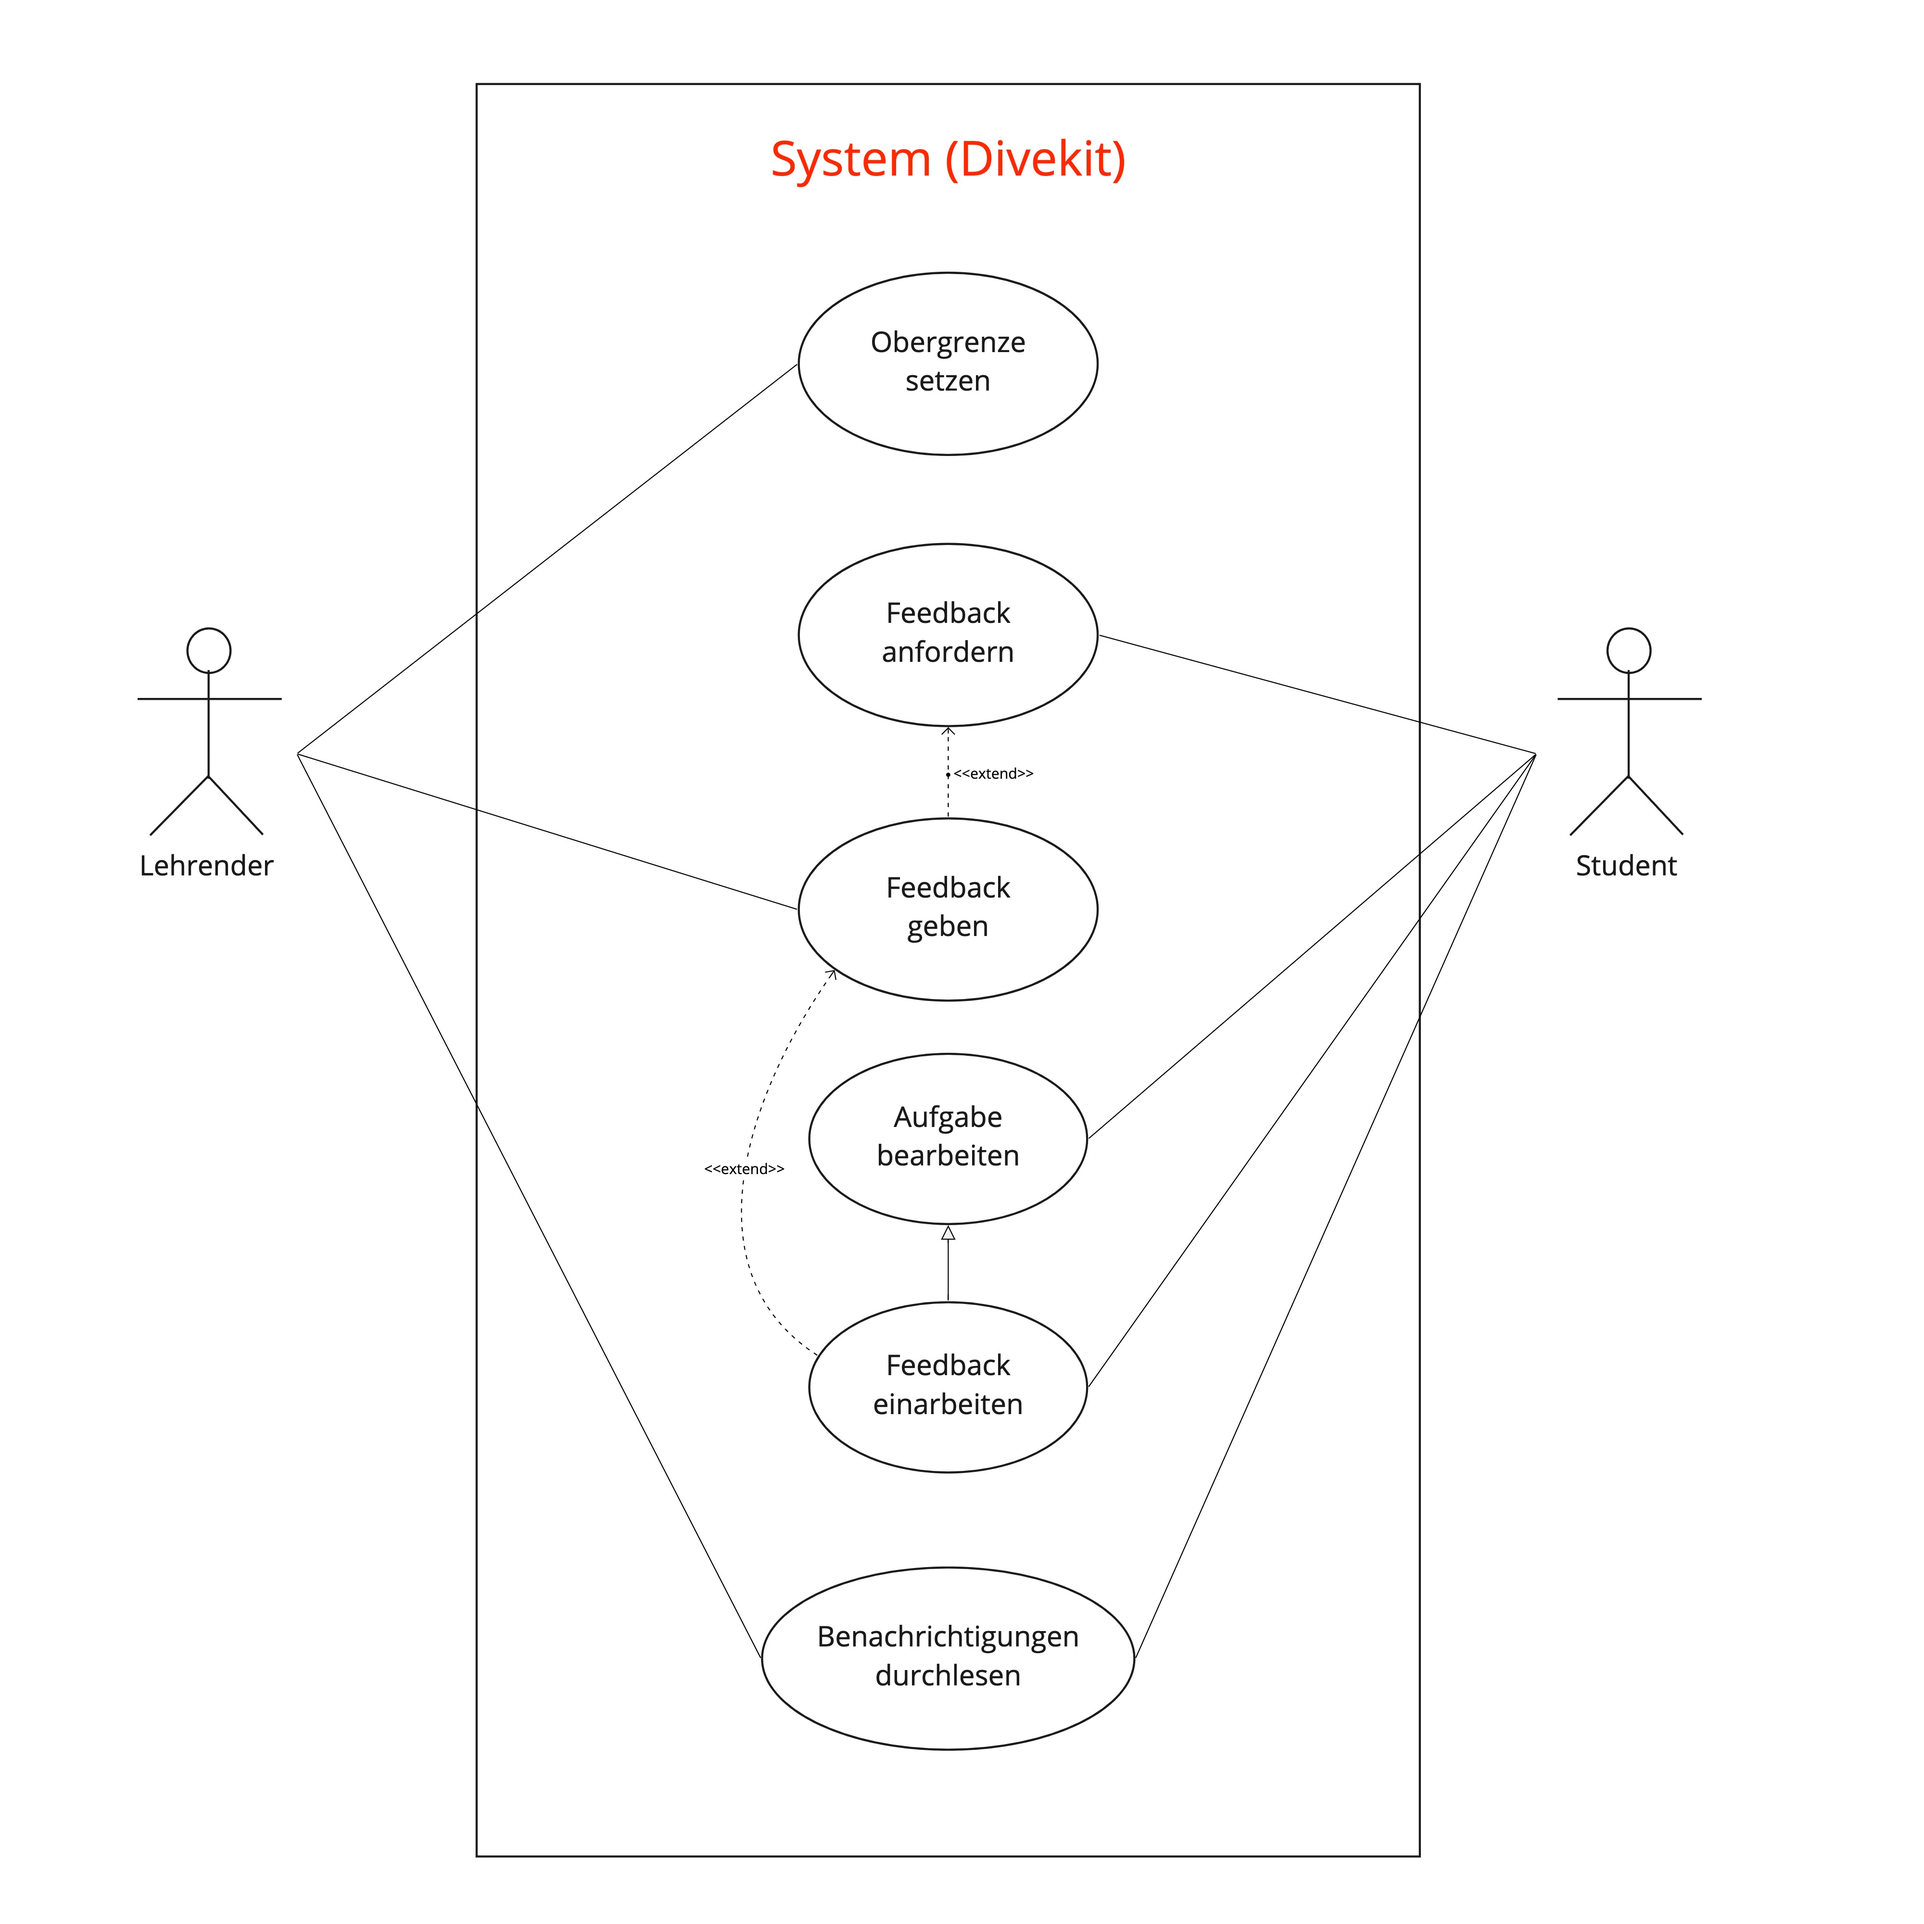
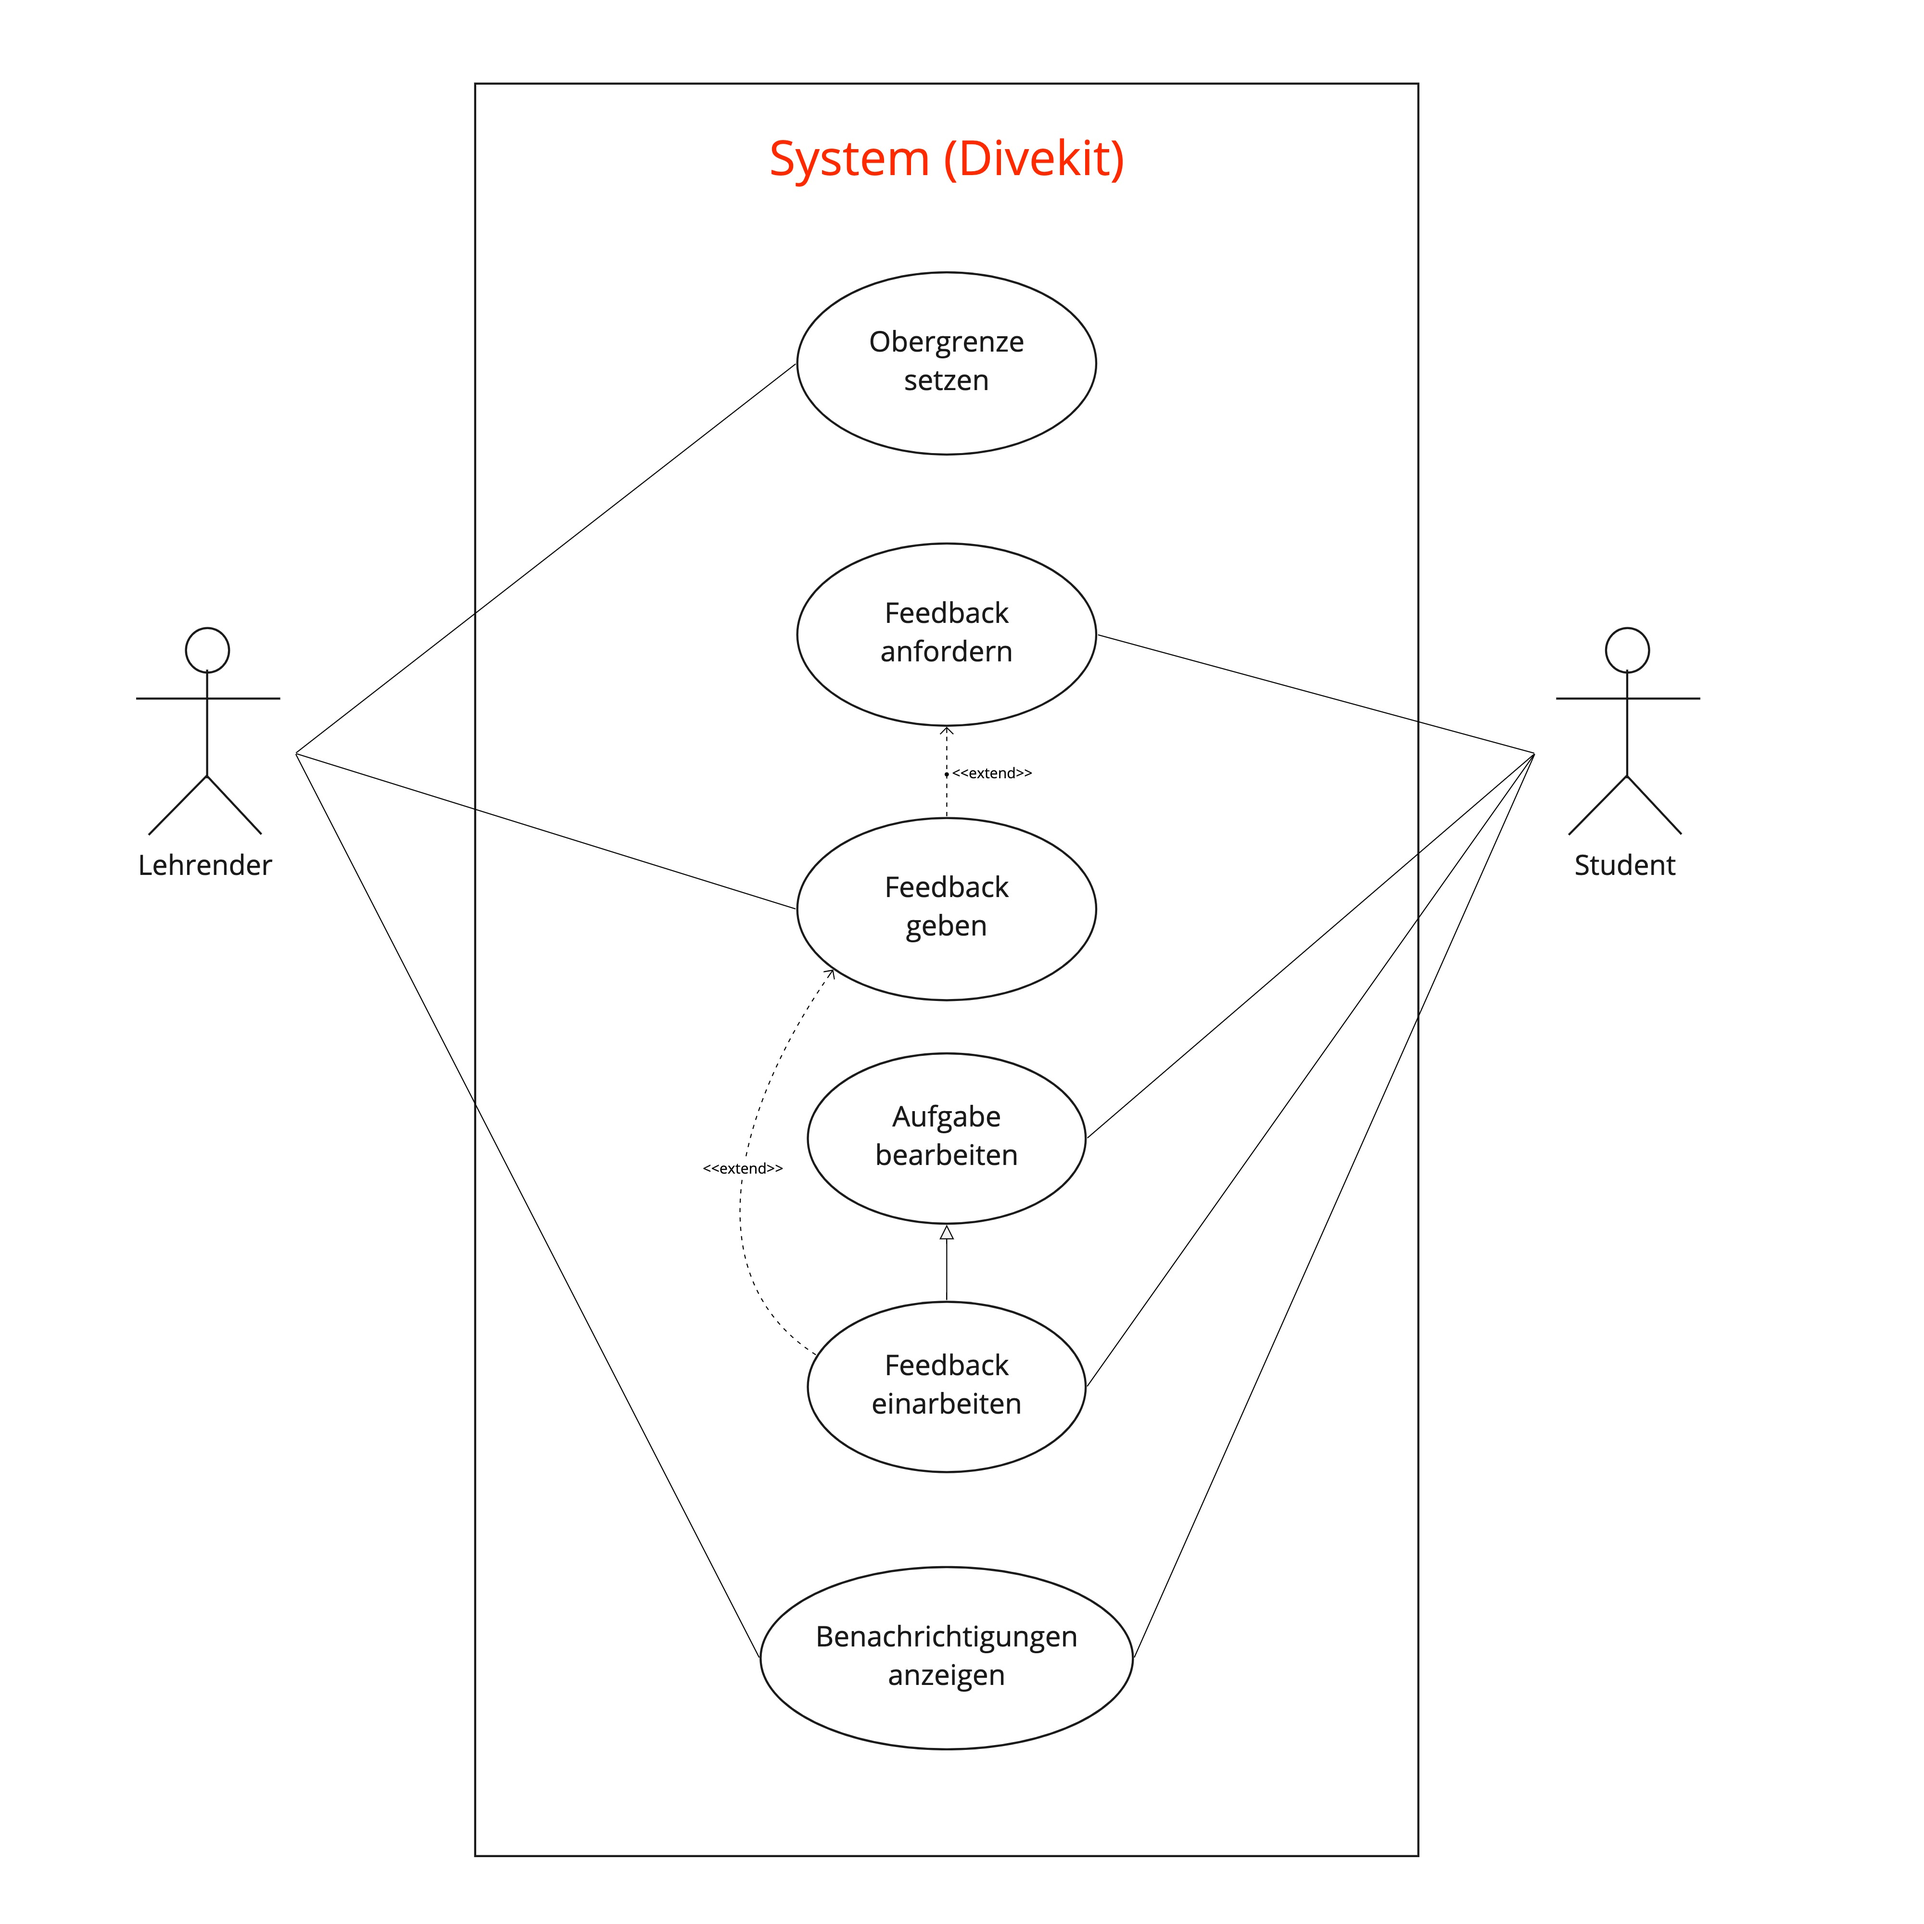
ucdFeedbackLimit update

diff --git a/_useCaseDiagrams/feedbackLimit.md b/_useCaseDiagrams/feedbackLimit.md
@@ -11,8 +11,9 @@ useCases:
     - Feedback geben
     - Aufgabe bearbeiten
     - Feedback einarbeiten
-    - Benachrichtigung durchlesen
+    - Benachrichtigungen anzeigen
 useCasesDetailedWithScenario:
+    - setFeedbackLimit
 diagram: ./diagrams/useCaseFeedbackLimit.jpg
 history:
     v1:
@@ -21,8 +22,11 @@ history:
     v2:
         date: 2021-07-23
         comment: Review-Anmerkungen eingearbeitet
+    v3:
+        date: 2021-07-29
+        comment: added Detailed UC. Use Case Benachrichtigung durchlesen durch Benachrichtigungen anzeigen ersetzt. Beschreibung etwas erweitert.
 todo: 
-    - (sbe) nur "Benachrichtigung durchlesen" ist mir unklar, sonst gut
+
 ---
 
 ## Beschreibung
@@ -36,7 +40,7 @@ Der Student kann das Feedback anfordern. Der Lehrende ist dagegen verpflichtet a
 (aber aus Systemsicht wird es nicht erzwungen).
 Außerdem arbeitet der Student das Feedback ein, was ein Spezialfall von "Aufgabe bearbeiten" ist.
 Sowohl der Student als auch der Lehrende werden über neue Feedback-Anfrage/-Antwort benachrichtigt.
-Das System übernimmt diese Benachrichtigungsfunktion.
+Das System übernimmt diese Benachrichtigungsfunktion. Die Benutzer können die Benachrichtigungen im System einsehen.
 
 
 
